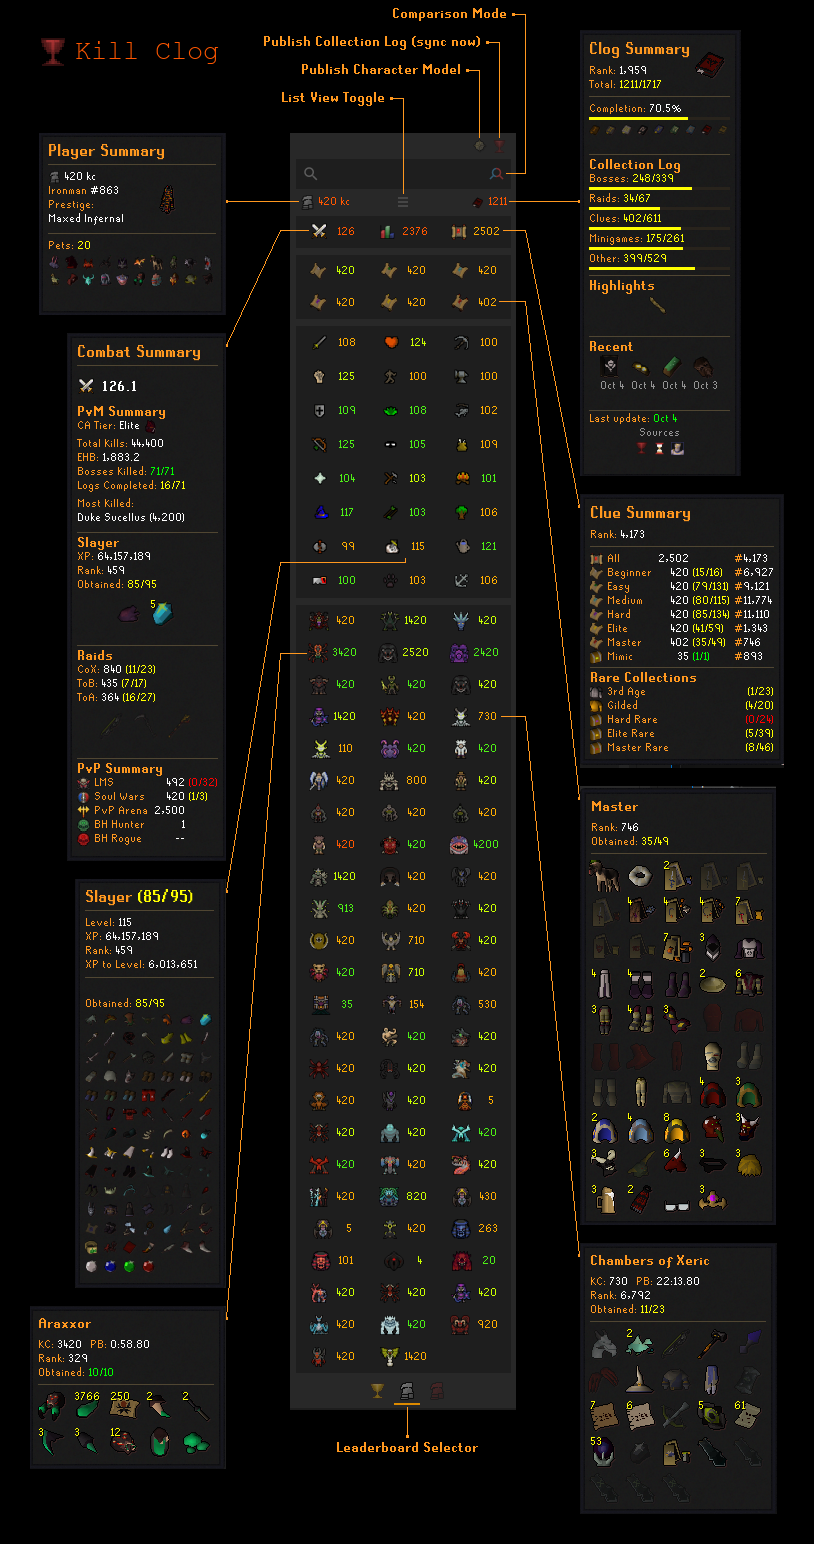
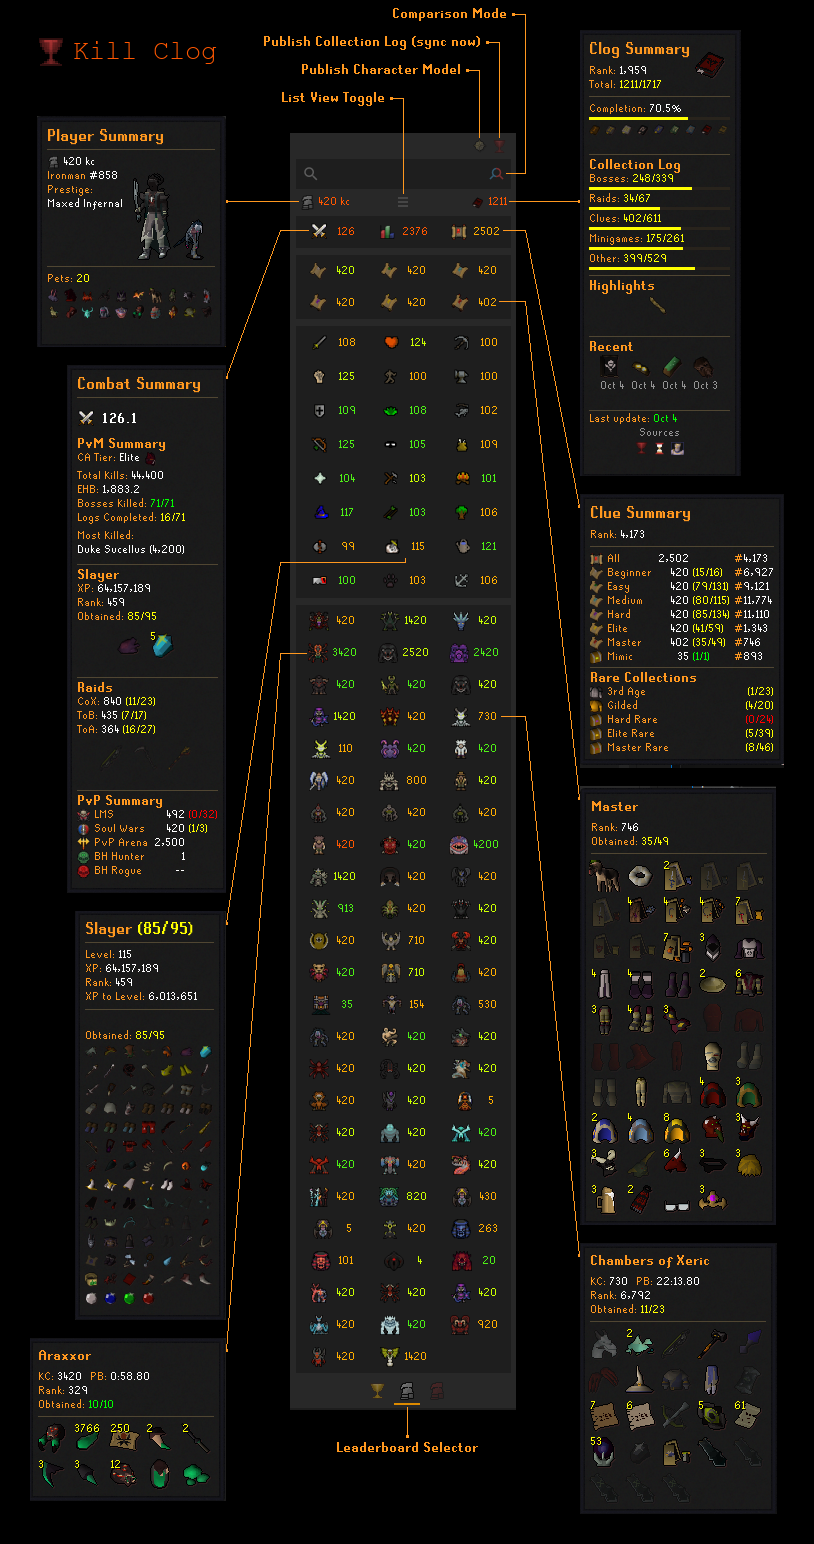
reorder the readme and show a synced character in the player summary

Changed region(s): [[0.0307, 0.4974, 0.2764, 0.9948], [0.0307, 0.0311, 0.2764, 0.4663]]

diff --git a/README.md b/README.md
@@ -6,7 +6,7 @@ HiScores, Collection Logs, Personal Bests, and player comparison in one RuneLite
 
 ![Kill Clog's panel for 420 kc, with a popup from each kind of cell](screenshots/hero-2.5.0.png)
 
-## Collection Log setup and updates
+## Setup
 
 Install **Kill Clog** from the RuneLite Plugin Hub and open its panel while logged in. Your account loads automatically.
 
@@ -16,7 +16,35 @@ Your log is saved locally and updates with new unlocks as you play. Open the Col
 
 To retry an update, reopen the log or choose **Search** at the top. If it says **RuneProfile**, right-click it and choose **Search**. Interrupted updates keep your saved log.
 
-## Look up other players
+## Kill Clog Web Sync
+
+Optional and off by default.
+
+**Sync Collection Log** publishes your Collection Log, unlock dates and personal bests to your killclog.com profile. The chalice button (**publish collection log**) publishes right away. Open the in-game log first so it's current.
+
+**Publish Character Model** needs Sync Collection Log. It adds the **publish character** button beside the chalice, which publishes your character and follower in your real appearance. Anyone who looks you up in Kill Clog sees them in your Player Summary.
+
+![Kill Clog Web Sync settings with Sync Collection Log and Publish Character Model on](screenshots/web-sync-settings.png)
+
+![The publish character button beside the chalice at the top of the panel](screenshots/web-sync-publish-character.png)
+
+![based batt's published character and follower on killclog.com and in Kill Clog's Player Summary](screenshots/web-sync-profile-and-summary.png)
+
+The icon will flash green on a successful upload.
+
+## Skill Clogs
+
+Every skill has its own Collection Log-style progression. Skill modals combine relevant activities, equipment, and unlocks with the skill's level, XP, rank, and XP to next level.
+
+![Enable Skill Clogs on](screenshots/skill-clogs-setting-on.png)
+
+![A Fletching skill modal with its Vale Totems skill clog](screenshots/skill-clog-on.png)
+
+![Enable Skill Clogs off](screenshots/skill-clogs-setting-off.png)
+
+![The same Fletching modal with Skill Clogs off](screenshots/skill-clog-off.png)
+
+## Player Lookup
 
 Enter an RSN in the search bar, or right-click a supported player or name and choose **Kill Clog**.
 
@@ -32,7 +60,13 @@ While a League runs, a **Leagues** switch beside the search bar flips the panel 
 
 HiScores load for any valid RSN, including Collection Log totals and ranks when listed. Item-by-item Collection Log details appear when that player has data available through TempleOSRS, RuneProfile, or Kill Clog.
 
-### Leaderboard selector
+## Grid and List views
+
+Toggle between the default Grid view and List view with the **Menu** button under the search bar. Comparison uses Grid view.
+
+![Bosses in Grid view and List view](screenshots/grid-and-list-views.png)
+
+## Leaderboard selector
 
 Turn on **Show Leaderboard Selector** under **Lookup** to switch between the hiscores a player is on, using the icons below the grid.
 
@@ -40,41 +74,7 @@ Turn on **Show Leaderboard Selector** under **Lookup** to switch between the his
 
 A Hardcore who died keeps their stats from the moment of death on the Hardcore tab, marked with a skull on the helm. A de-ironed account's old Ironman stats get a crossed-out helm. Comparisons and new lookups always use each player's own leaderboard.
 
-## Grid and List views
-
-Toggle between the default Grid view and List view with the **Menu** button under the search bar. Comparison uses Grid view.
-
-![Bosses in Grid view and List view](screenshots/grid-and-list-views.png)
-
-## Skill Clogs
-
-Every skill has its own Collection Log-style progression. Skill modals combine relevant activities, equipment, and unlocks with the skill's level, XP, rank, and XP to next level.
-
-![Enable Skill Clogs on](screenshots/skill-clogs-setting-on.png)
-
-![A Fletching skill modal with its Vale Totems skill clog](screenshots/skill-clog-on.png)
-
-![Enable Skill Clogs off](screenshots/skill-clogs-setting-off.png)
-
-![The same Fletching modal with Skill Clogs off](screenshots/skill-clog-off.png)
-
-## Kill Clog Web Sync
-
-Optional and off by default.
-
-**Sync Collection Log** publishes your Collection Log, unlock dates and personal bests to your killclog.com profile. The chalice button (**publish collection log**) publishes right away. Open the in-game log first so it's current.
-
-**Publish Character Model** needs Sync Collection Log. It adds the **publish character** button beside the chalice, which publishes your character and follower in your real appearance.
-
-![Kill Clog Web Sync settings with Sync Collection Log and Publish Character Model on](screenshots/web-sync-settings.png)
-
-![The publish character button beside the chalice at the top of the panel](screenshots/web-sync-publish-character.png)
-
-![A published character and follower on a killclog.com profile](screenshots/web-sync-profile.png)
-
-The icon will flash green on a successful upload.
-
-## Chat
+## Chat Commands
 
 ![A Kill Clog chat reply for Brutus with item sprites and quantities](screenshots/chat-reply-brutus.png)
 

diff --git a/docs/chat-commands.md b/docs/chat-commands.md
@@ -1,6 +1,6 @@
 # Chat command reference
 
-[Back to the README](../README.md#chat)
+[Back to the README](../README.md#chat-commands)
 
 ## Quick rule
 
